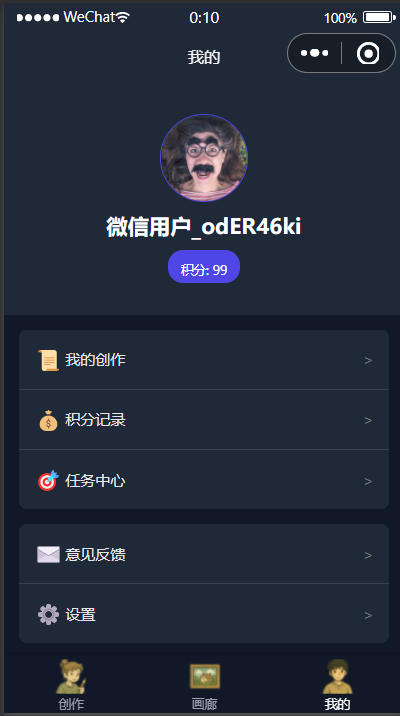
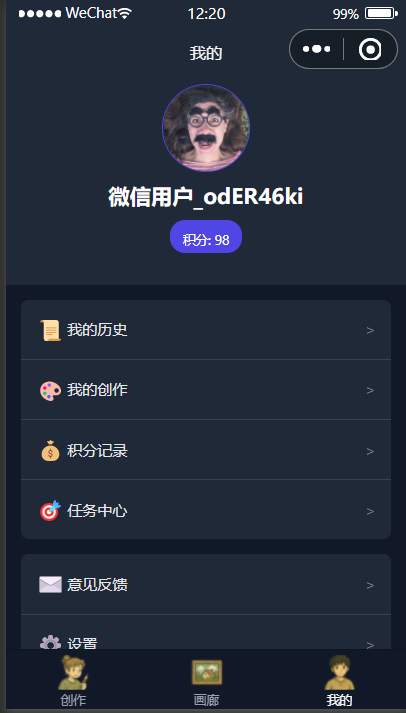
fix(my_creations): 优化readme

diff --git a/README.md b/README.md
@@ -76,11 +76,21 @@
 ### 画廊
 ![画廊](screenshot/画廊.png)
 
+### 画廊详情
+![画廊详情](screenshot/画廊详情.png)
+
 ### 积分记录
 ![积分记录](screenshot/积分记录.png)
 
 ### 我的创作
 ![我的创作](screenshot/我的创作.png)
+
+### 创作详情
+![创作详情](screenshot/创作详情.png)
+
+### 我的历史
+![我的历史](screenshot/我的历史.png)
+
 
 ### 设置
 ![设置](screenshot/设置.png)
